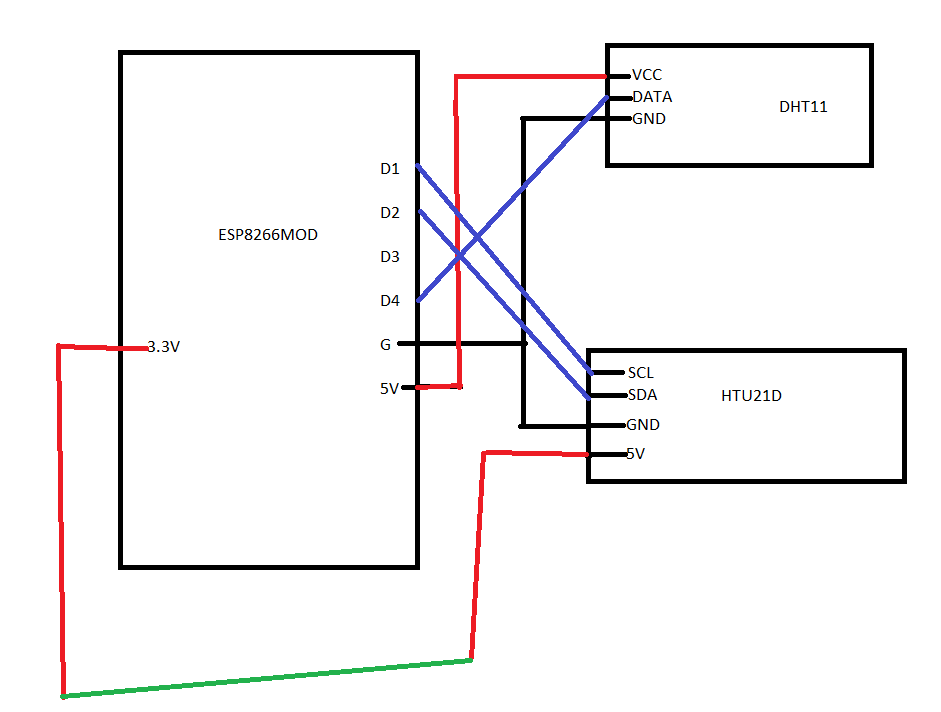
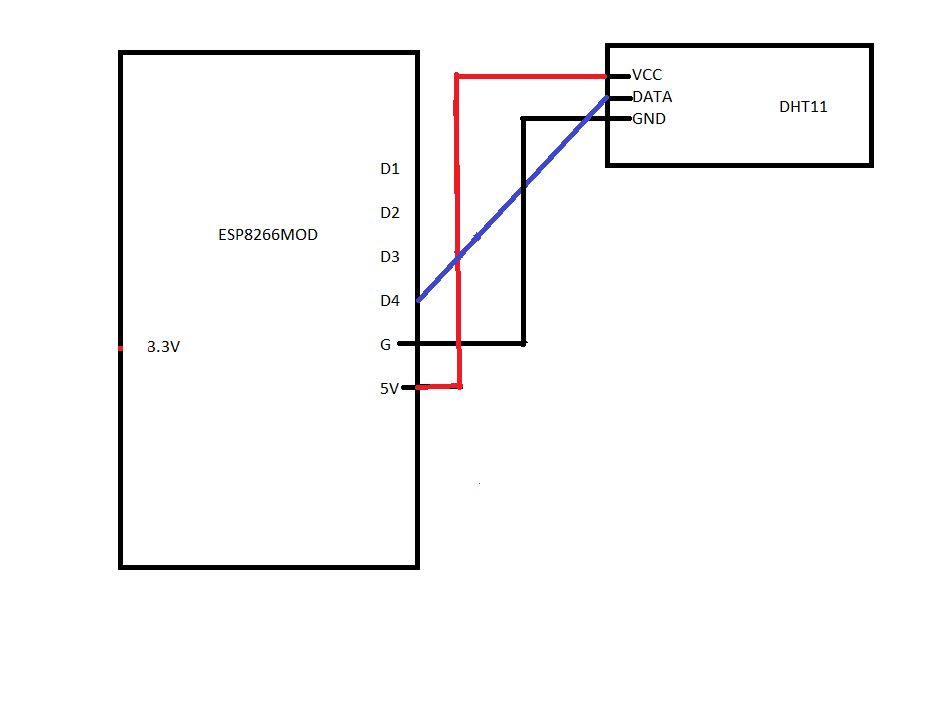
modified to work only with DHT11, made getData.py to fetch data from db in order to map and graph the results Done : get Temp To do : get Humd

diff --git a/Esp8266Mod_Dht11_Htu21d/getData.py b/Esp8266Mod_Dht11_Htu21d/getData.py
@@ -1,0 +1,9 @@
+from firebase import firebase
+
+authentication = firebase.FirebaseAuthentication('secret',
+                                                 'mail', True, True)
+firebase = firebase.FirebaseApplication('dblink', authentication)
+temp = firebase.get('/DHT11_t', None)
+humd = firebase.get('/DHT11_h', None)
+print(temp)
+print(humd)
